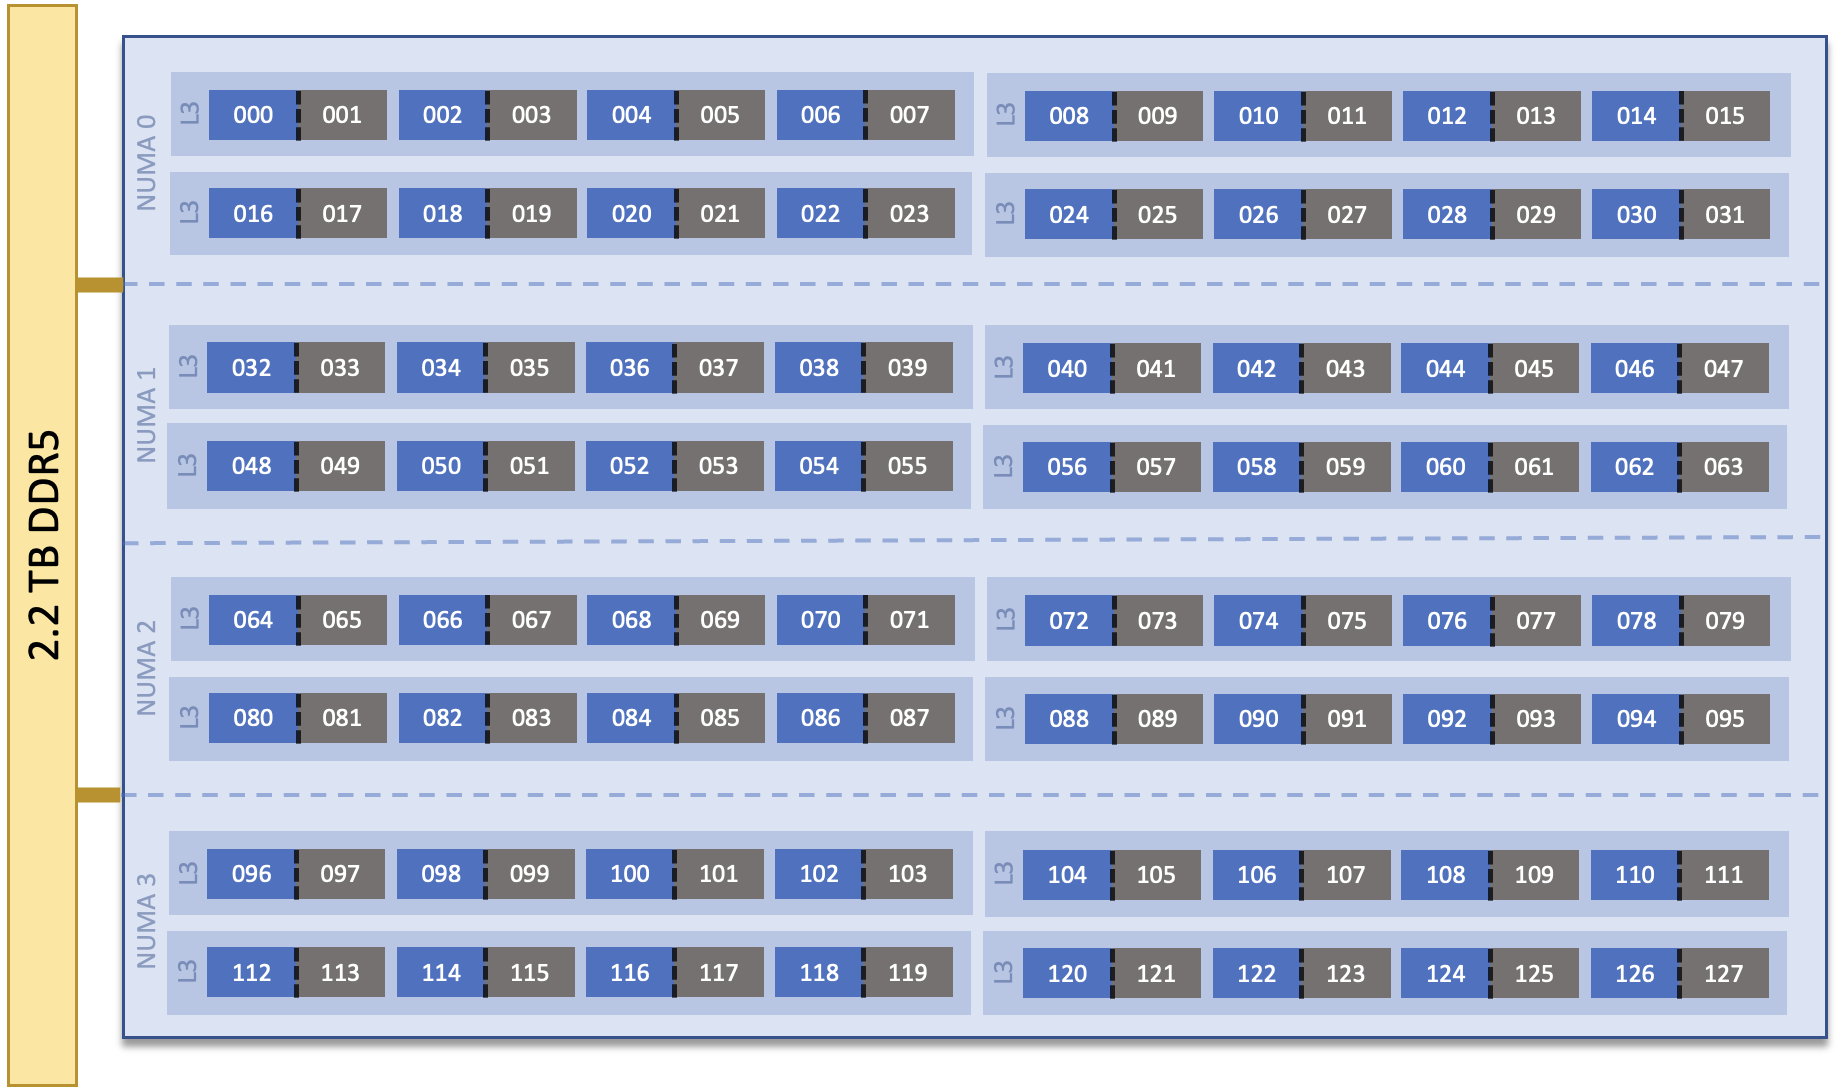
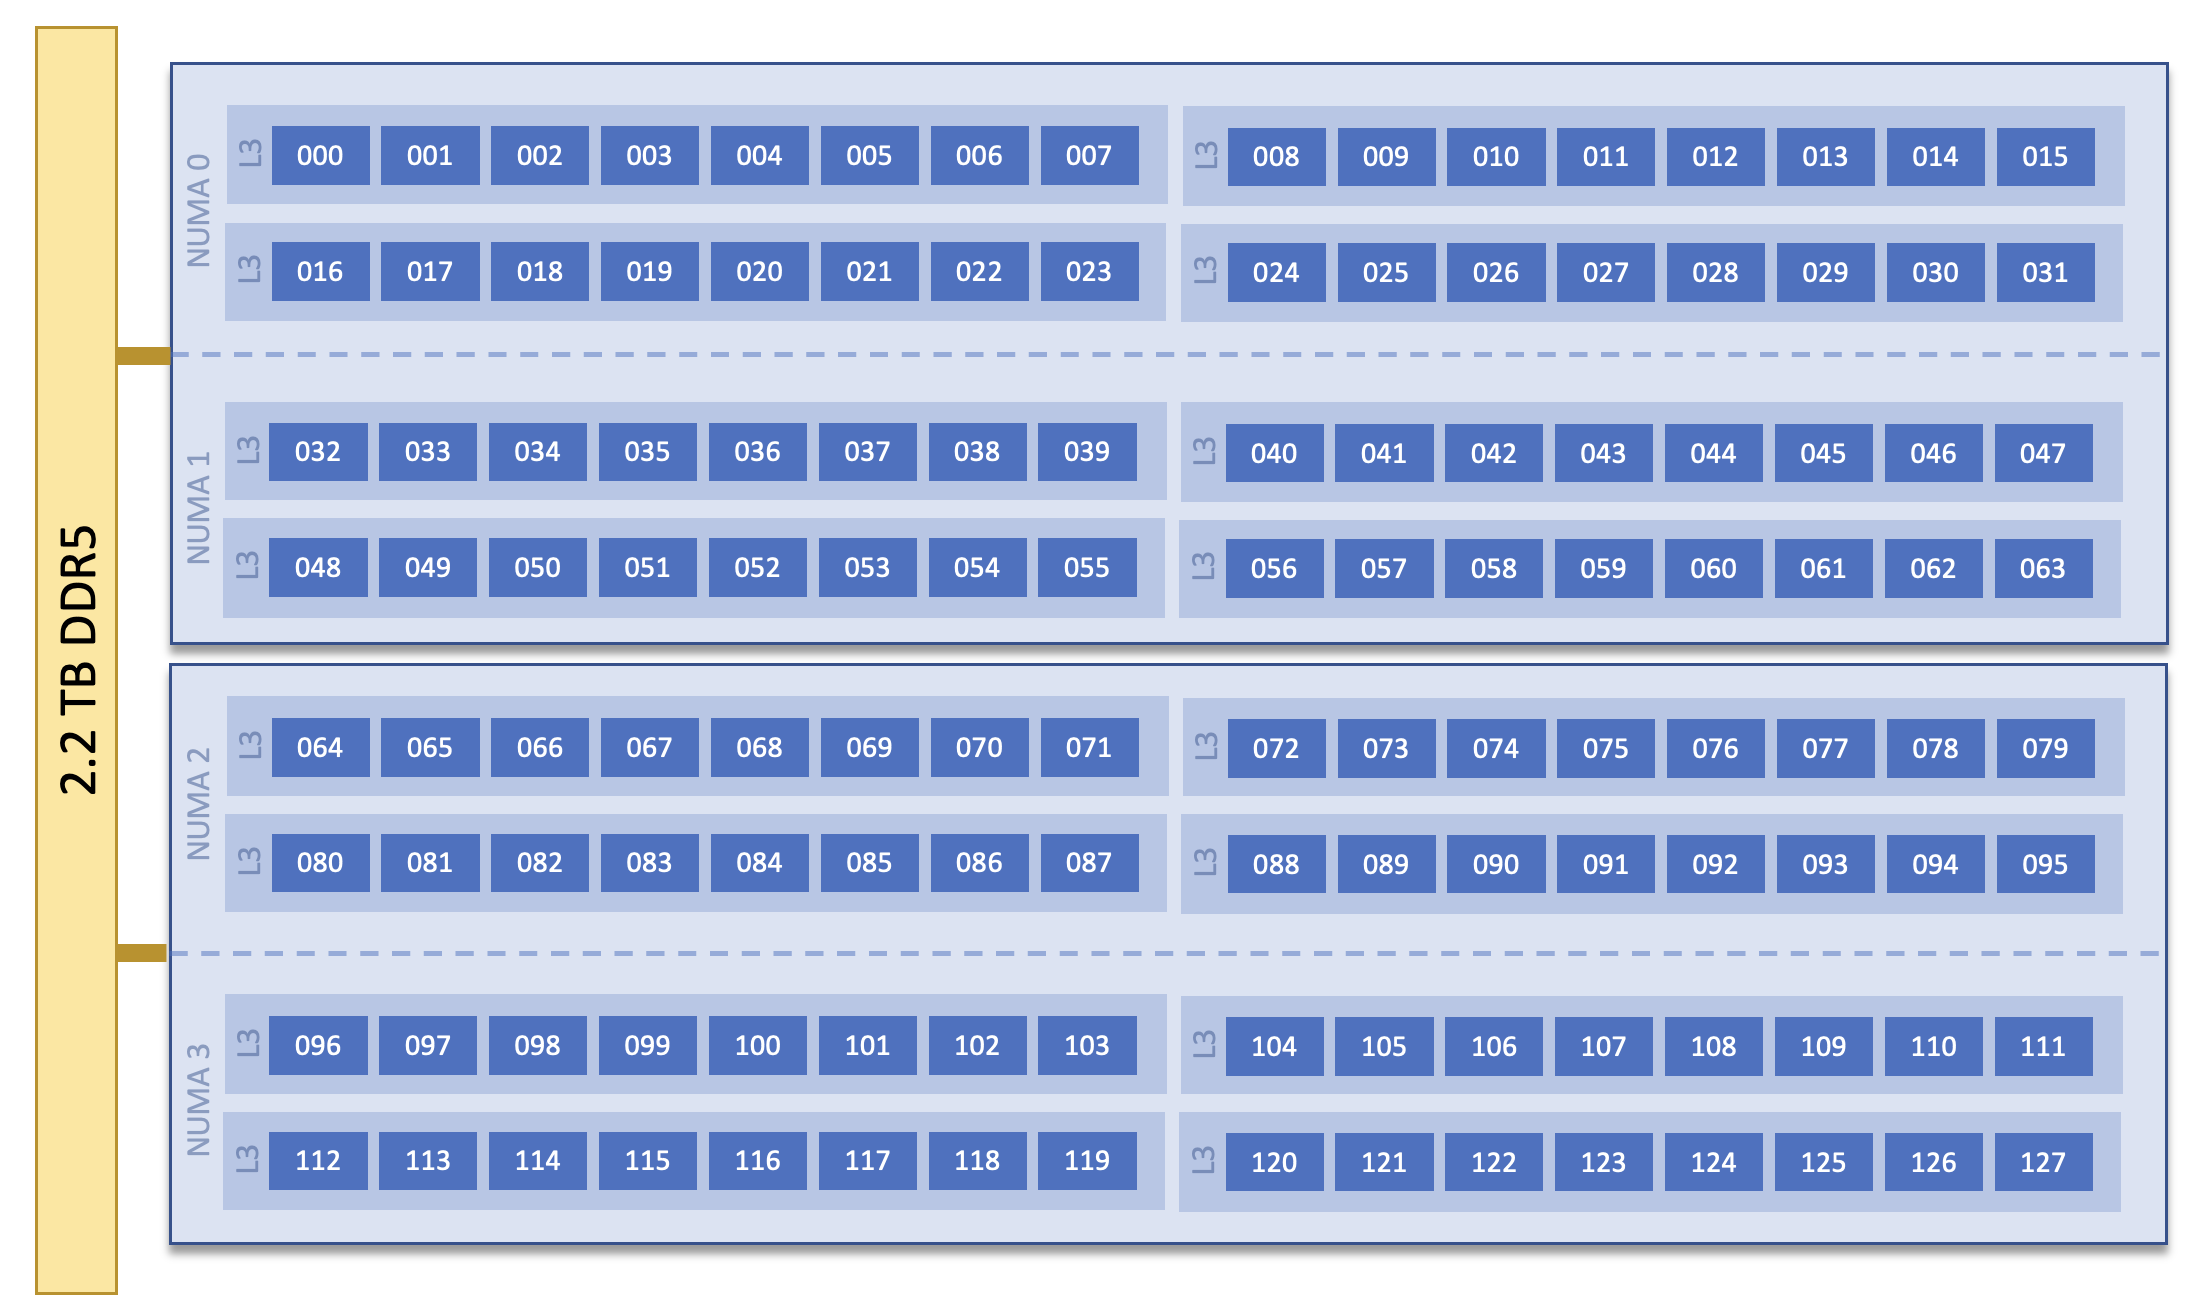
Updating node images and pushing some vis changes

diff --git a/systems/riker_user_guide.rst b/systems/riker_user_guide.rst
@@ -30,15 +30,16 @@ GPU Compute Nodes
 Each Riker GPU compute node consists of [1x] 64-core AMD EPYC 9575F CPU.
 The CPU has access to 1.5TB of memory and [2x] 48GB NVIDIA L40S GPUs.
 
-.. image:: /images/Riker_GPU.png
+.. image:: /images/Riker_GPU_node.png
    :align: center
    :width: 100%
    :alt: Riker node architecture diagram
 
 .. note::
-    There is 1 NUMA domain per node, that are defined as follows:
+    There is 2 NUMA domain per node, that are defined as follows:
 
-    * NUMA 0: CPU(s) 0-63
+    * NUMA 0: CPU(s) 0-31
+    * NUMA 1: CPU(s) 32-63
 
 
 CPU Compute Nodes
@@ -105,7 +106,7 @@ or direct connect to a specific login node (login1p for example):
 
 .. code-block:: bash
     
-    $ ssh username@riker-login1p.olcf.ornl.gov
+    $ ssh username@riker-login5.olcf.ornl.gov
 
 ----
 
@@ -520,7 +521,6 @@ script:
    #SBATCH -p <partition> 
    #SBATCH -N #
    #SBATCH -c #
-   #SBATCH --mem=###
  
    srun -n4 --ntasks-per-node=2 ./a.out 
 
@@ -567,7 +567,7 @@ command can be used:
 
 .. code-block:: bash
    
-   $ salloc -A <project_id> -p <partition> -t 00:10:00  -N 2 -c 4 --mem=72GB
+   $ salloc -A <project_id> -p <partition> -t 00:10:00  -N 2 -c 4
    salloc: Granted job allocation 4258
    salloc: Waiting for resource configuration
    salloc: Nodes riker[35-36] are ready for job
@@ -590,7 +590,7 @@ Single Command (non-interactive)
 
 .. code-block:: bash
 
-   $ srun -A <project_id> -t 00:05:00 -p <partition> -N 2 -n 4 -c 4 --mem=72GB --ntasks-per-node=2 ./a.out
+   $ srun -A <project_id> -t 00:05:00 -p <partition> -N 2 -n 4 -c 4 --ntasks-per-node=2 ./a.out
    <output printed to terminal>
 
 The job name and output options have been removed since stdout/stderr are
@@ -684,7 +684,7 @@ In this sub-section, a simple MPI+OpenMP "Hello, World" program
 (`hello_mpi_omp <https://code.ornl.gov/olcf/hello_mpi_omp>`__) will be used to
 clarify the mappings. Slurm's :ref:`riker-interactive` method was used to request an
 allocation of 1 compute node for these examples: 
-``salloc -A <project_id> -p batch -t 00:30:00 -N 1 -c 4 --mem=72GB``
+``salloc -A <project_id> -p batch -t 00:30:00 -N 1 -c 4``
 
 The ``srun`` options used in this section are (see ``man srun`` for more information):
 

diff --git a/software/viz_tools/paraview.rst b/software/viz_tools/paraview.rst
@@ -304,7 +304,6 @@ batch scripts, along with a working Python example, are provided below.
         #SBATCH -t 0:05:00
         #SBATCH -N #
         #SBATCH -c #
-        #SBATCH --mem=###
 
         cd $SLURM_SUBMIT_DIR
         date

diff --git a/software/viz_tools/visit.rst b/software/viz_tools/visit.rst
@@ -345,7 +345,6 @@ OLCF systems is provided below.
         #SBATCH -p gpu
         #SBATCH -t 0:05:00
         #SBATCH -c 4
-        #SBATCH --mem=92GB
 
         cd $SLURM_SUBMIT_DIR
         date
